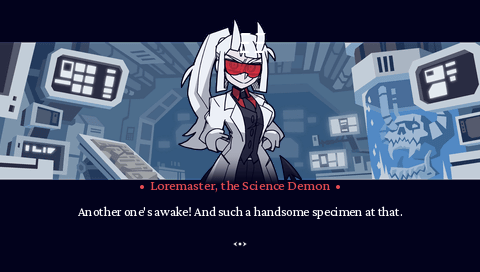
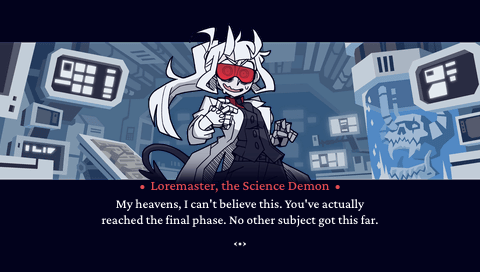
Screenshots retaken from 2.1
Main menu, chapter VII, Judgement, an Examtaker lab floor, the Arch Mecha
Demon defeated (SUCCESS on the monitor) and the Loremaster, all from the 2.1
build: new PSP-drawn text and button prompts.

Changed region(s): [[0.2812, 0.0882, 0.6875, 0.7059], [0.1562, 0.7353, 0.8438, 0.8529]]

diff --git a/README.md b/README.md
@@ -58,7 +58,7 @@ The game now runs on **Vain's C Portable Engine 3.4**:
 - Credits
 
 ![Chapter VII](screenshots/chapter_7.png)
-![Judgement](screenshots/judgement_boss.png)
+![Judgement boss fight](screenshots/judgement_boss.png)
 
 ### Examtaker
 
@@ -68,7 +68,7 @@ The game now runs on **Vain's C Portable Engine 3.4**:
 - The Examtaker door transition, the ending with Lucifer and the Examtaker credits
 
 ![Examtaker lab](screenshots/examtaker_lab.png)
-![Examtaker boss](screenshots/examtaker_boss.png)
+![The Arch Mecha Demon defeated](screenshots/examtaker_boss.png)
 ![Loremaster](screenshots/examtaker_dialogue.png)
 
 ### Port features
